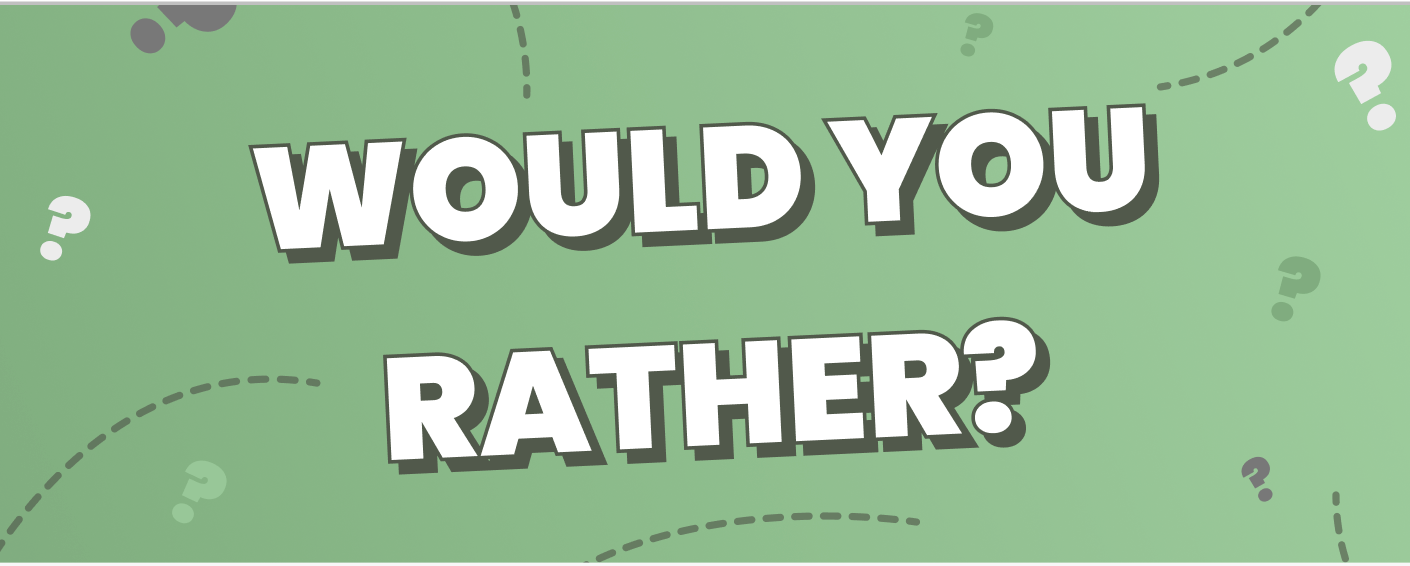
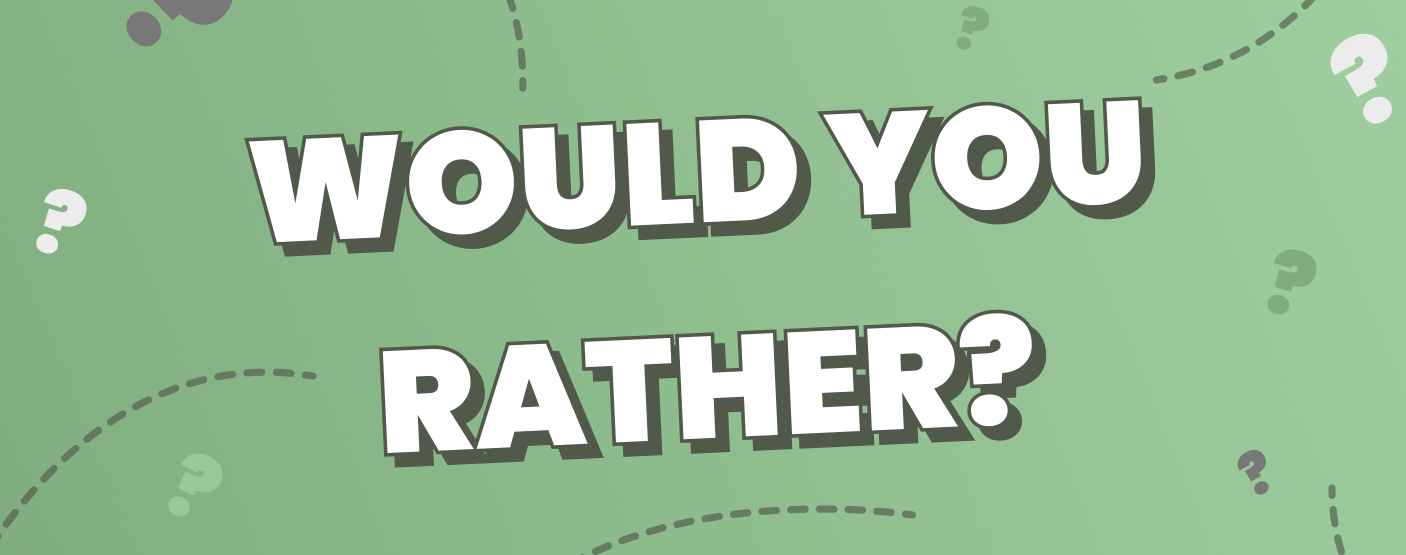
updated wyr start game page

diff --git a/src/screens/Home/WouldYouRather/StartGame.js b/src/screens/Home/WouldYouRather/StartGame.js
@@ -24,7 +24,6 @@ const StartGame = ({ route, navigation }) => {
   const [host, setHost] = useState(null); // Get the host of the event
 
   // Data for the attendees
-  const [attendees, setAttendees] = useState([]);
   const [people, setPeople] = useState([]);
   const [loading, setLoading] = useState(false);
 
@@ -47,26 +46,17 @@ const StartGame = ({ route, navigation }) => {
   }, []);
 
   // Fetch all attendees of this event
-  const getAttendees = () => {
-    event.attendees.forEach((attendee) => {
-      if (attendee !== user.uid) {
-        db.collection("Users")
-          .doc(attendee)
-          .get()
-          .then((doc) => {
-            const data = doc.data();
-            let attended = false;
-            const ids = data.attendedEventIDs.map((e) => e.id);
-
-            if (ids.includes(event.id)) {
-              attended = true;
-            }
-
-            setPeople((people) => [...people, data]);
-            setAttendees((attendees) => [...attendees, attended]);
-          });
-      }
-    });
+  const getAttendees = async () => {
+    try {
+      const attendeePromises = event.attendees.map((attendee) =>
+        db.collection("Users").doc(attendee).get()
+      );
+      const attendeeDocs = await Promise.all(attendeePromises);
+      const attendeesData = attendeeDocs.map((doc) => doc.data());
+      setPeople(attendeesData);
+    } catch (error) {
+      console.error("Error fetching attendees:", error);
+    }
   };
 
   return (
@@ -82,73 +72,79 @@ const StartGame = ({ route, navigation }) => {
         }
         leftAction={() => navigation.goBack()}
       />
-      <ScrollView>
-      <ImageBackground
-        source={
-          event.hasImage
-            ? { uri: event.image }
-            : require("../../../../assets/wyr.png")
-        }
-        style={styles.imageBackground}
-        resizeMode="cover">
-        </ImageBackground>
+      <View style={styles.container}>
+        <ScrollView contentContainerStyle={styles.scrollContent}>
+          <ImageBackground
+            source={require("../../../../assets/wyr.png")} // Always use the wyr.png image
+            style={styles.imageBackground}
+            resizeMode="cover"
+          />
 
+          <View style={styles.infoContainer}>
+            <LargeText size={30} marginBottom={10}>
+              Would You Rather?
+            </LargeText>
 
-        <View style={styles.infoContainer}>
-          <LargeText size={24} marginBottom={10}>
-            Would You Rather?
-          </LargeText>
+            <View style={styles.row}>
+              <MediumText>Players:</MediumText>
+            </View>
+            <View style={styles.row}>
+              {people.length === 0 ? (
+                <NormalText paddingHorizontal={25} size={17} color="black">
+                  {"No players have joined yet"}
+                </NormalText>
+              ) : (
+                people.map((person, index) => (
+                  <PlayerList
+                    person={person}
+                    key={person.id}
+                    color="white"
+                    width="50%"
+                    height="10%"
+                    click={() => {
+                      navigation.navigate("FullProfile", {
+                        person: person,
+                      });
+                    }}
+                  />
+                ))
+              )}
+            </View>
 
-          <View style={styles.row}>
-            <MediumText>Players</MediumText>
+            <View style={styles.infoSection}>
+              <MediumText>Event:</MediumText>
+              <NormalText>{event.title}</NormalText>
+              <MediumText size={17}>{event.name}</MediumText>
+              {/* <NormalText>Location: {event.location}</NormalText> */}
+            </View>
           </View>
-          <View style={styles.row}>
-            {people.length === 0 ? (
-              <NormalText paddingHorizontal={25} size={17} color="black">
-                {"Just yourself"}
-              </NormalText>
-            ) : (
-              people.map((person, index) => {
-                if (person.id !== user.uid) {
-                  return (
-                    <PlayerList
-                      person={person}
-                      key={person.id}
-                      color="white"
-                      width="50%"
-                      height="10%"
-                      click={() => {
-                        navigation.navigate("FullProfile", {
-                          person: person,
-                        });
-                      }}
-                    />
-                  );
-                }
-              })
-            )}
-          </View>
+        </ScrollView>
 
-          <Button
-            onPress={() => {
-              navigation.navigate("IntroGuidelines", {
-                event: event,
-                people: people,
-              });
-            }}
-          >
-            Start Game
-          </Button>
-        </View>
-      </ScrollView>
+        <Button marginVertical={35}
+          style={styles.startButton}
+          onPress={() => {
+            navigation.navigate("IntroGuidelines", {
+              event: event,
+              people: people,
+            });
+          }}
+        >
+          Guidelines
+        </Button>
+      </View>
     </Layout>
   );
 };
 
 const styles = StyleSheet.create({
+  container: {
+    flex: 1,
+  },
+  scrollContent: {
+    paddingBottom: 20,
+  },
   infoContainer: {
     marginHorizontal: 30,
-    marginBottom: 100,
   },
   row: {
     flexDirection: "row",
@@ -186,6 +182,7 @@ const styles = StyleSheet.create({
     top: 5,
     right: 5,
   },
+  
 });
 
 export default StartGame;
